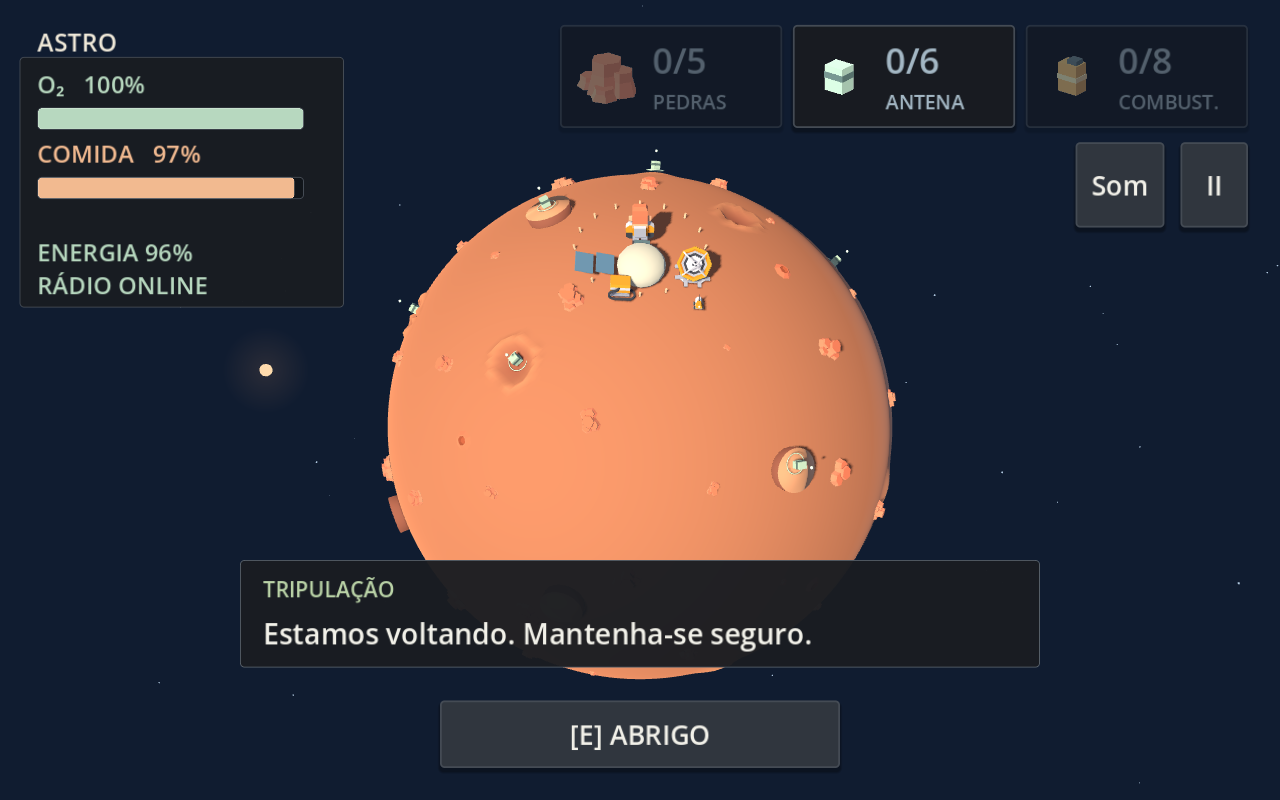
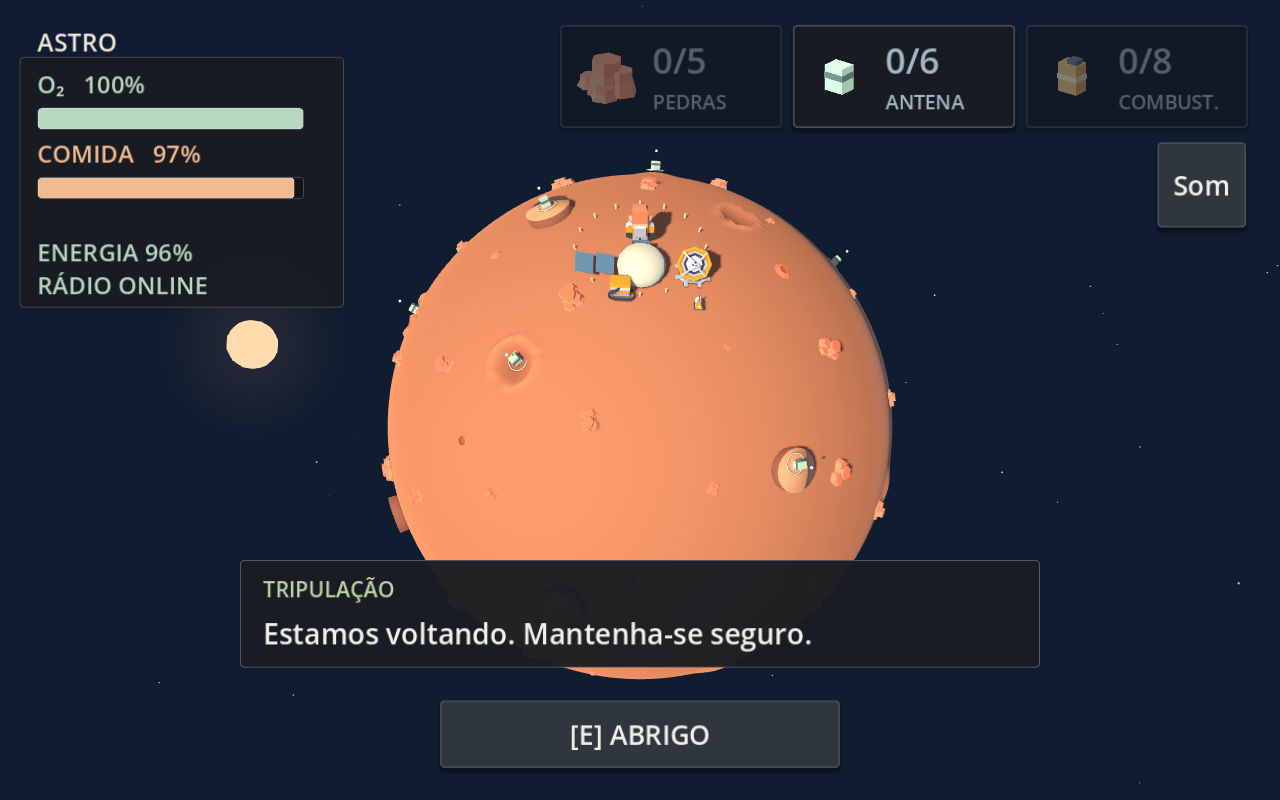
Simplify start menu and tune uninterrupted survival, solar sound and resource alerts

Changed region(s): [[0.8438, 0.1562, 0.9688, 0.3125], [0.1562, 0.375, 0.2188, 0.4688]]

diff --git a/README.md b/README.md
@@ -7,13 +7,13 @@ Uma miniaventura cozy 3D no Godot 4.7.2. Isolado em Marte, explore o planeta, ma
 No Windows, abra **Jogar.cmd**. O iniciador usa o Godot instalado na pasta Downloads deste computador, no PATH ou na variável `GODOT_EXE`. Para editar, importe `project.godot` no Godot 4.7 e pressione F5. Não há dependências de rede ou plugins.
 
 - WASD ou setas: caminhar por toda a superfície esférica.
-- Espaço: saltar sobre bordas e subir plataformas baixas. Movimento em velocidade fixa de 3,78 m/s; não há corrida.
+- Espaço: saltar sobre bordas e subir plataformas baixas. Movimento em velocidade fixa de 3,8934 m/s (+3%); não há corrida.
 - E: recolher, entrar/sair da base, usar os painéis ou embarcar na nave.
 - E na estufa: consumir uma refeição e reabastecer alimentos.
-- Esc: fechar configurações/minigame ou pausar. Botão Som: ajustar volumes.
+- Esc: fechar configurações ou minigame. A partida não tem pausa. Botão Som: ajustar volumes.
 - Celular: joystick e botões aparecem automaticamente; jogue na horizontal. A orientação vertical suspende a partida.
 
-O menu abre com arte marciana 2D e composição central, **Começar** centralizado e uma engrenagem. Botões maiores facilitam o toque. A capa anterior permanece em `assets/ui/menu-mars.png`; a atual é `assets/ui/menu-mars-2d.png`. As configurações oferecem volumes independentes de geral, músicas, interações e avisos, salvos entre sessões. Space Galaxy toca na exploração/menu; Space Ship toca dentro da base, com transição suave.
+O menu abre com arte marciana 2D e composição central, **Começar** em bege alaranjado e uma engrenagem, sem painel ou frase ao redor dos botões. A capa anterior permanece em `assets/ui/menu-mars.png`; a atual é `assets/ui/menu-mars-2d.png`. As configurações oferecem volumes independentes de geral, músicas, interações e avisos, salvos entre sessões. Space Galaxy toca na exploração/menu; Space Ship toca dentro da base, com transição suave. O ganho da música externa foi reduzido em cerca de 6 dB, e o da base em cerca de 2,4 dB; durante a radiação há redução adicional para destacar o ambiente sonoro.
 
 Começar apresenta um vídeo original de 22 segundos com trilha e legendas. Pular, Espaço, Enter ou Esc abrem o guia da missão. O guia ocupa cerca de 70% da tela e tem duas páginas: **Próximo** e **Começar**. Recursos e eventos ficam suspensos até Começar. Reiniciar após derrota retorna ao menu e não repete o vídeo na mesma sessão. Embarcar inicia uma cutscene de decolagem de 14 segundos, também pulável, antes da tela de vitória.
 
@@ -28,15 +28,15 @@ A superfície tem crateras rasas, relevos suaves e plataformas de 0,38–0,44 m.
 - **Energia:** conecte três cabos com letras iguais. O reparo restaura 100% e reinicia o ciclo de **63,75 segundos**. Em 30%, já é possível reparar preventivamente. **Sem energia, a produção de O₂ para**, inclusive dentro da base, e a reserva do traje continua caindo. A partida começa com energia ativa.
 - **Comunicação:** o rádio de avisos começa ativo e cai após **85 segundos**. Para restaurar a antena e enviar a posição ao resgate, reúna seis peças e sobreponha as ondas por três segundos. Cada queda muda a sintonia. Depois de chamar a nave, não há novas quedas durante a aproximação.
 
-Dentro da base, o O₂ se recupera **se houver energia** e não há dano solar; o alimento continua sendo consumido. A janela fica iluminada durante o aviso e a névoa, apagando quando é seguro sair. A radiação e a aproximação da nave continuam enquanto você está no interior. **Nos minigames, recursos e temporizadores ficam suspensos.**
+Dentro da base, o O₂ se recupera **se houver energia** e não há dano solar; o alimento continua sendo consumido. A janela fica iluminada durante o aviso e a névoa, apagando quando é seguro sair. **A sobrevivência continua durante minigames, configurações e orientação vertical**; apenas os controles ficam indisponíveis. Falta de energia interrompe a sintonia da antena. O guia anterior ao início continua sem consumir recursos.
 
 As mensagens da tripulação se limitam ao início, confirmação do sinal e pouso. **Inteligência artificial AXIOS** avisa sobre energia em 30%, a primeira pane e radiação prevista. Sem comunicação, os avisos ligados à antena são descartados, inclusive os já abertos; o primeiro diagnóstico local de desconexão apenas explica que os avisos foram suspensos. A janela e os indicadores físicos continuam funcionando sem rádio.
 
 Oxigênio e alimento exigem viagens de reabastecimento: a base com energia repõe O₂; a estufa oferece refeições com E e não protege da radiação. A derrota encerra a expedição e exige recomeçar do zero.
 
-As reservas aumentaram 5%: O₂ dura cerca de **31 segundos** e comida cerca de **58 segundos**. Internamente vão até 105 unidades; a interface continua mostrando 100% quando cheias. Barras ficam vermelhas e pulsam quando baixas. Depois de zerar, há dois segundos de tolerância. Pausar congela os prazos. A base energizada repõe O₂ em aproximadamente 4,2 segundos.
+As reservas aumentaram 5%: O₂ dura cerca de **31 segundos** e comida cerca de **58 segundos**. Internamente vão até 105 unidades; a interface continua mostrando 100% quando cheias. Barras ficam vermelhas e pulsam quando baixas; avisos locais na tela aparecem em 25% e 12%, mesmo sem rádio, e voltam a funcionar após reabastecer. Depois de zerar, há dois segundos de tolerância. A base energizada repõe O₂ em aproximadamente 4,2 segundos.
 
-Após 100 segundos, o céu clareia durante dez segundos de aviso, seguidos de uma névoa que cobre o planeta inteiro por 12 segundos. A antena conectada antecipa a previsão em 20 segundos e mostra a primeira instrução de abrigo. O aviso físico do céu e a janela funcionam mesmo sem rádio. Um único eco baixo acompanha o aviso. **Só o interior protege**. Três segundos de exposição contínua causam derrota; entrar no abrigo zera a exposição. A borda da tela indica o perigo crescente.
+Após 100 segundos, o céu clareia durante dez segundos de aviso, seguidos de uma névoa que cobre o planeta inteiro por 12 segundos. A antena conectada antecipa a previsão em 20 segundos e mostra a primeira instrução de abrigo. Uma explosão com eco marca o início da radiação, seguida de ruído contínuo até o fim, também audível dentro do abrigo. O Sol visual é maior e fica a 180 unidades do centro do planeta; a lua ficou 25% menor. **Só o interior protege**. Três segundos de exposição contínua causam derrota; entrar no abrigo zera a exposição. A borda da tela indica o perigo crescente.
 
 O₂ e alimento ficam progressivamente vermelhos e pulsam suavemente quando baixos. Energia também pulsa em vermelho aos 30% ou menos. Um aviso de dois tons, diferente do sol, soa em 25% e 12%; na faixa crítica, pode repetir a cada oito segundos. Energia e desconexão têm sons próprios. Mensagens aparecem a 70 caracteres por segundo com digitação discreta. Coletas tocam notas ascendentes; derrota toca um acorde descendente. Os efeitos são sintetizados originalmente; as duas músicas de ambiente foram fornecidas pelo usuário e estão identificadas em [assets/audio/README.md](assets/audio/README.md). A arte do menu e seu prompt estão em [docs/MENU_ART.md](docs/MENU_ART.md).
 
@@ -50,7 +50,7 @@ O preset Web usa exportação sem threads e uma página que respeita recortes de
 
 ## Arte e áudio
 
-Modelos **Kenney Space Kit 2.0 (CC0)** reutilizados do Last Light conforme solicitado. Licença em `assets/space/License.txt`, origem em https://kenney.nl/assets/space-kit e proveniência em `docs/ASSETS.md`. O planeta, acampamento, nave, iluminação e interface são montados no projeto. Trilha ambiente espacial original: acordes longos com timbre de órgão, drone grave e camadas aéreas. Sons de coleta, ecos solares e alertas também são sintetizados localmente, sem gravações ou músicas de terceiros. Veja `docs/AUDIO.md`.
+Modelos **Kenney Space Kit 2.0 (CC0)** reutilizados do Last Light conforme solicitado. Licença em `assets/space/License.txt`, origem em https://kenney.nl/assets/space-kit e proveniência em `docs/ASSETS.md`. O planeta, acampamento, nave, iluminação e interface são montados no projeto. As duas trilhas de ambiente foram fornecidas pelo usuário; coleta, explosão, ruído solar e alertas são sintetizados localmente. Veja `docs/AUDIO.md`.
 
 ## Verificação
 

diff --git a/docs/FEATURE_VALIDATION.md b/docs/FEATURE_VALIDATION.md
@@ -17,7 +17,7 @@ Base: main `f9259e0`. Ambiente: Windows, Godot 4.7.2, Chrome. Capturas geradas p
 
 ## Ajustes de sobrevivência e manutenção
 
-`tests/mission_balance.gd`, executado pelo smoke test, verifica proteção somente dentro do abrigo, tutorial solar sem repetição, pane elétrica após 63,75 s, desconexão após 85 s, nova sintonia, mensagens únicas, velocidade de 3,78 m/s e alarmes separados.
+`tests/mission_balance.gd`, executado pelo smoke test, verifica proteção somente dentro do abrigo, tutorial solar sem repetição, pane elétrica após 63,75 s, desconexão após 85 s, nova sintonia, mensagens únicas, velocidade de 3,8934 m/s e alarmes separados.
 
 `tests/axios_ui.gd` cobre produção de O₂ dependente de energia, reparo preventivo em 30%, previsão solar e aviso de bateria somente com rádio, descarte dos avisos sem conexão, janela iluminada, reservas de 105 unidades e guia pós-vídeo com todos os temporizadores suspensos. Confere também a área do guia (~70%) e as três miniaturas.
 
@@ -29,13 +29,15 @@ Importação e exportação Web concluídas sem erros. `tests/web_smoke.cjs` abr
 
 ## Evidências e limites
 
+Ajuste de sobrevivência contínua: `tests/survival_tuning.gd` cobre menu sem painel/frase, botão de início quente, ganhos musicais reduzidos, Sol maior a 180 unidades/lua menor, explosão e loop solar audíveis nos dois ambientes até o fim do evento, avisos de O₂/comida sem rádio e ausência de pausa por Esc. Os testes de minigame/configurações agora exigem que comida e temporizadores continuem avançando. O guia anterior ao início permanece congelado. `critical-preview.png` mostra o aviso local combinado de recursos.
+
 Correção de áudio e salto: `tests/terrain_mobile.gd` verifica bloqueio lateral das plataformas, salto com joystick e segundo dedo, pouso, queda ao sair da borda, alcance vertical de coleta, profundidade das crateras, oito direções com velocidade normalizada e cancelamento ao perder foco. Malha e movimentação consultam o mesmo campo de altura em `scripts/planet_terrain.gd`.
 
 `tests/web_audio_mobile.cjs` usa Chrome com Pixel 7 emulado, sem flag para liberar autoplay. Mede amostras na saída Web Audio em menu/vídeo/exploração/base, verifica silêncio/retorno pelo volume geral e exercita oito direções, diagonais, soltura, salto em movimento com dois dedos, pouso sobre a plataforma, entrada e movimento no abrigo e cancelamento do joystick em orientação vertical. A execução terminou sem erros. Capturas: `web-mobile-jump.png`, `web-mobile-platform.png`, `web-mobile-audio-base.png`. O parâmetro local `?qa=1` habilita apenas a telemetria usada pelo teste; a partida normal não publica esse estado.
 
 O menu 2D centralizado e seus botões maiores foram inspecionados em desktop e paisagem de celular emulado. A arte anterior continua preservada. O defeito de áudio foi reproduzido medindo saída zero apesar dos players ativos; após a correção Stream, a saída deixou de ser zero. Isso complementa os testes antigos, que verificavam estado e console mas não o sinal de áudio.
 
-Menu e descoberta: `tests/radio_resources.gd` verifica 6 peças de antena antes da transmissão, 5 pedras/8 combustíveis depois dela, bloqueio de coleta sem sinal, itens ocultos após transição interior/exterior e preservação do inventário. Também cobre volumes independentes, zero silencioso, suspensão da simulação nas configurações e troca entre os dois MP3 em loop. O teste web abre a engrenagem, ajusta música e percorre o início em desktop/toque. No desktop, recarrega a página e confere visualmente o ganho preservado em `web-desktop-settings-restored.png`. `menu-preview.png` e `settings-preview.png` mostram a nova interface; a origem e o prompt da arte estão em `MENU_ART.md`.
+Menu e descoberta: `tests/radio_resources.gd` verifica 6 peças de antena antes da transmissão, 5 pedras/8 combustíveis depois dela, bloqueio de coleta sem sinal, itens ocultos após transição interior/exterior e preservação do inventário. Também cobre volumes independentes, zero silencioso, sobrevivência avançando nas configurações e troca entre os dois MP3 em loop. O teste web abre a engrenagem, ajusta música e percorre o início em desktop/toque. No desktop, recarrega a página e confere visualmente o ganho preservado em `web-desktop-settings-restored.png`. `menu-preview.png` e `settings-preview.png` mostram a nova interface; a origem e o prompt da arte estão em `MENU_ART.md`.
 
 A atualização de decolagem cobre névoa planetária de 12 s, morte após 3 s de exposição contínua, proteção e reinício da exposição dentro do abrigo, pulso de energia baixa, sons distintos de coleta/derrota e escrita progressiva. A automação percorre as duas páginas do guia com a simulação congelada e verifica vídeo final antes da tela de vitória. Capturas `solar-preview.png`, `briefing2-preview.png`, `outro-preview.png` e `outro-storyboard.png` registram os novos visuais. O teste web percorre ambos os slides em desktop e toque emulado.
 

diff --git a/docs/AUDIO.md b/docs/AUDIO.md
@@ -3,8 +3,8 @@
 Os efeitos são sintetizados no Godot. As duas músicas de exploração/base são os arquivos MP3 fornecidos pelo usuário, identificados em `assets/audio/README.md`:
 
 - Música: Space Galaxy na exploração/menu e Space Ship dentro da base. Reprodução em loop com transição de 1,2 segundo; as cutscenes mantêm suas trilhas originais.
-- Alerta solar: um único ruído grave de explosão distante com três ecos progressivamente mais baixos, a −20 dB. A indicação principal é o céu clareando. Não se repete a cada segundo.
-- Névoa solar: cauda curta do eco, a −23 dB, sem loop. Dentro da base, os dois efeitos solares são interrompidos.
+- Início da radiação: explosão grave com três ecos, a −13 dB, uma vez por evento, audível dentro e fora da base.
+- Névoa solar: ruído filtrado em loop, a −17 dB, durante todo o evento. Entrar e sair da base não reinicia nem interrompe o som. O loop termina com a radiação, a derrota ou o resgate.
 - O₂/alimento: dois pulsos suaves em 920/700 Hz, em canal próprio. Avisos em 25% e 12%; abaixo de 12%, repetição com intervalo de oito segundos.
 - Pane de energia: estalo elétrico e zumbido de 100 Hz, com envelope suave.
 - Desconexão: três notas descendentes com leve estática, distintas da pane elétrica e do alerta vital.
@@ -13,7 +13,9 @@ Os efeitos são sintetizados no Godot. As duas músicas de exploração/base sã
 - Digitação: pulsos de 35 ms, baixos e espaçados, somente enquanto aparecem letras.
 - Derrota: acorde grave descendente de 1,5 segundo, em canal próprio.
 
-Os efeitos ficam em `scripts/event_audio.gd`, com geração determinística e canais separados. A engrenagem do menu e **Som**, durante a partida, abrem quatro volumes independentes: geral, músicas, interações e avisos. Zero silencia somente o canal escolhido; os ganhos persistem em `user://audio.cfg`. Abrir configurações suspende recursos e eventos. A pausa suspende música e alertas. A coleta não interrompe os avisos. Os diálogos de rádio são textos na interface, sem voz gravada.
+Os efeitos ficam em `scripts/event_audio.gd`, com geração determinística e canais separados. A engrenagem do menu e **Som**, durante a partida, abrem quatro volumes independentes: geral, músicas, interações e avisos. Zero silencia somente o canal escolhido; os ganhos persistem em `user://audio.cfg`. Configurações e minigames não suspendem a sobrevivência. A coleta não interrompe os avisos. Os diálogos de rádio são textos na interface, sem voz gravada.
+
+O ganho nominal da música externa é 0,16 (antes 0,316) e o da base é 0,24. Durante radiação ativa, ambos recebem multiplicador 0,4; após o evento, o volume nominal retorna. A escolha de volume do jogador continua sendo respeitada.
 
 ## Correção da saída Web
 

diff --git a/docs/MENU_ART.md b/docs/MENU_ART.md
@@ -10,6 +10,8 @@ Prompt utilizado:
 
 Arquivo final: `assets/ui/menu-mars-2d.png`, gerado pela ferramenta integrada image_gen. A primeira capa foi preservada no caminho acima. A composição atual mantém o abrigo e o astronauta no centro; o menu sobreposto usa títulos centralizados e um botão principal de 560×112, com engrenagem de 112×112. A arte é enquadrada pelo centro em diferentes proporções de tela.
 
+A faixa das ações agora é transparente, sem borda externa ou frase adicional. Apenas Começar (bege alaranjado) e a engrenagem permanecem sobre a arte; a ilustração não foi modificada.
+
 Prompt utilizado:
 
 > Wide 16:9 background artwork for a cozy little Mars survival game menu. Clearly 2D cartoon illustration, very simple flat colored shapes, crisp clean outlines, limited palette, like a hand-drawn indie game storybook, NO realistic rendering, no detailed textures, no 3D look, no cinematic photorealism. Centered balanced symmetrical composition with important subjects in the central 60 percent so it crops well on mobile screens: a small cute cream dome shelter with a mint window and simple antenna near the lower center, tiny chunky suited astronaut beside it, a gently curved terracotta planet horizon with a few small rounded craters and low stepping platforms, deep navy sky with sparse graphic star dots and a small peach sun. Top and center-middle have quiet navy negative space for a large centered title; bottom-middle has quiet dark terracotta negative space for centered menu buttons added by game UI. Keep shelter and astronaut visible around lower middle sides, not at the far edges. Warm peach, sage mint, cream and navy palette matching a low-poly cozy space game. Flat friendly graphic design, minimal highlights, readable silhouette. No words, no text, no logos, no UI, no watermark.

diff --git a/docs/WEB.md b/docs/WEB.md
@@ -26,7 +26,7 @@ Envie **todos os arquivos** de `build/web` para hospedagem estática HTTPS, mant
 
 - Detecção combina identificação Android/iOS e capacidade de toque, incluindo iPadOS em modo desktop. Computadores touch continuam com a interface de computador. A largura da janela não ativa controles mobile.
 - Dedos independentes permitem mover e saltar/interagir simultaneamente. Não há corrida. Pausa, troca de tela, perda de foco e redimensionamento limpam os toques ativos.
-- A página respeita `safe-area-inset` e bloqueia scroll sobre o canvas. Na orientação vertical, partida e puzzle aguardam o aparelho ser girado.
+- A página respeita `safe-area-inset` e bloqueia scroll sobre o canvas. Na orientação vertical, movimento e entrada do puzzle aguardam o aparelho ser girado, mas recursos e eventos de sobrevivência continuam.
 - Vídeo Theora 960×540/24 fps reproduzido pelo Godot após Iniciar, com legendas separadas. Falha/travamento do decoder tem texto de contexto e limite de duração. Pular fica disponível desde o início.
 
 Chrome desktop e emulação Android foram exercitados localmente. **Safari/iPhone, Android físico, recortes e desempenho em aparelhos reais ainda precisam de validação.**
